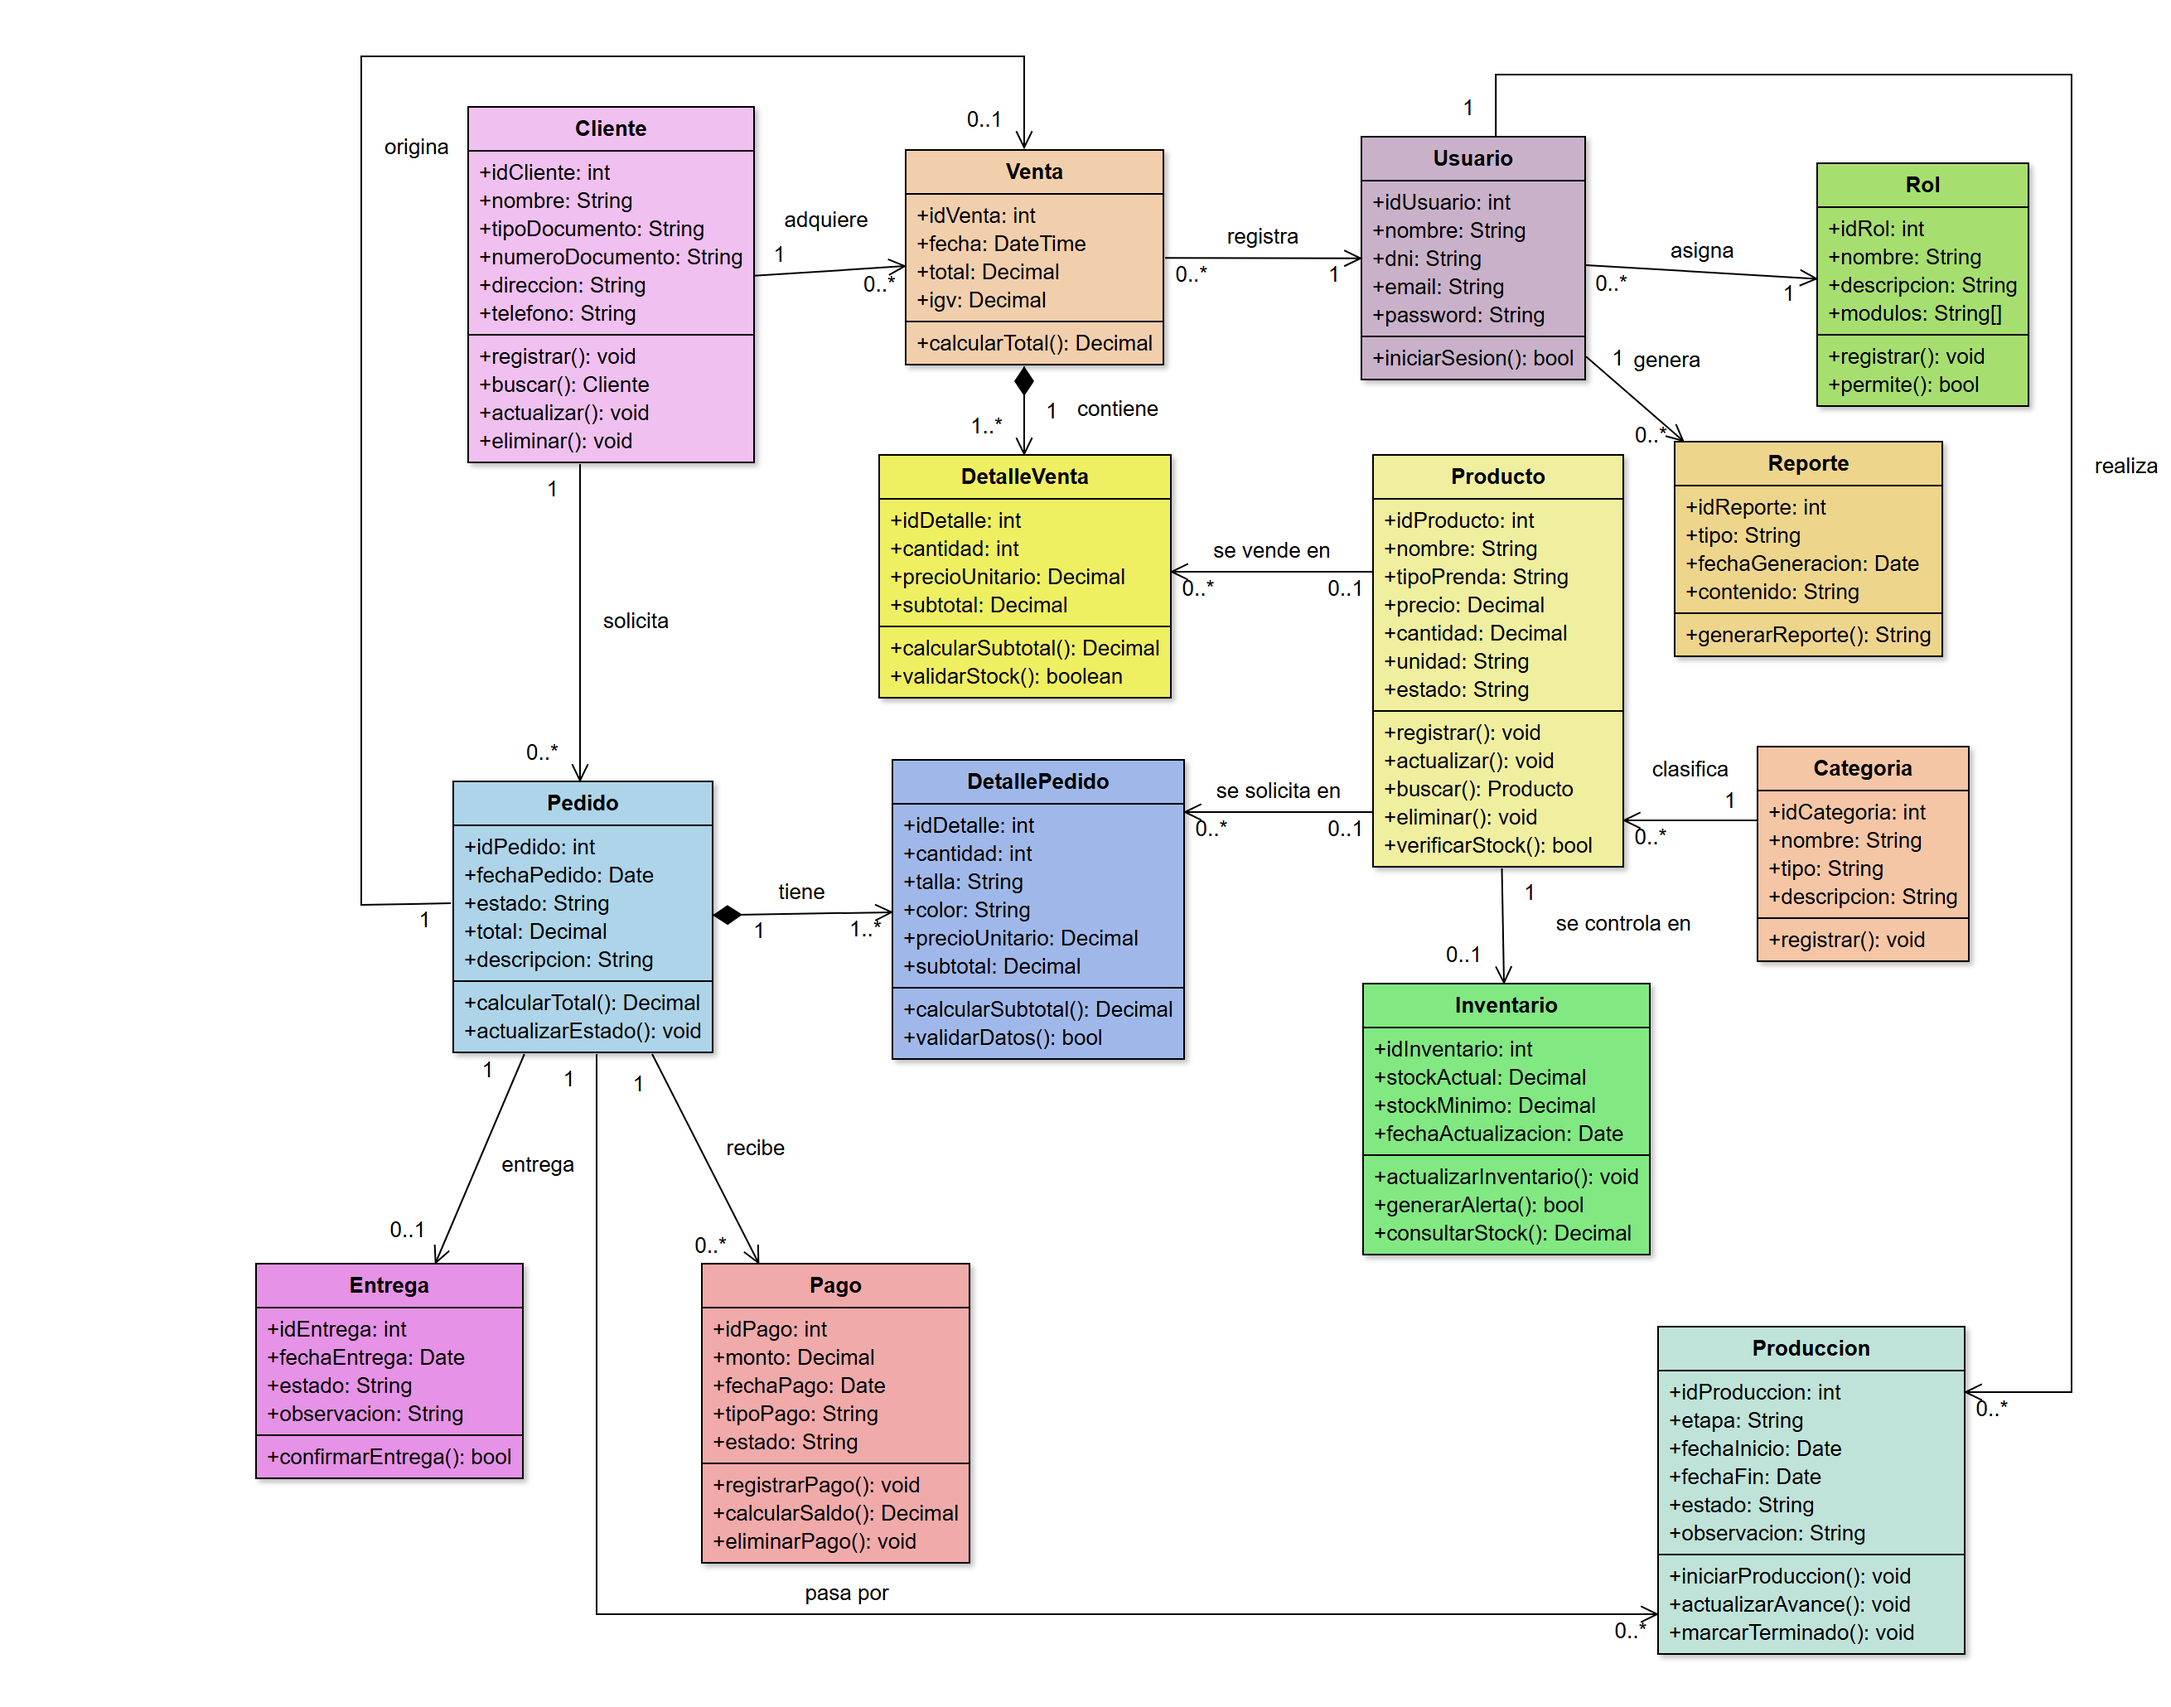
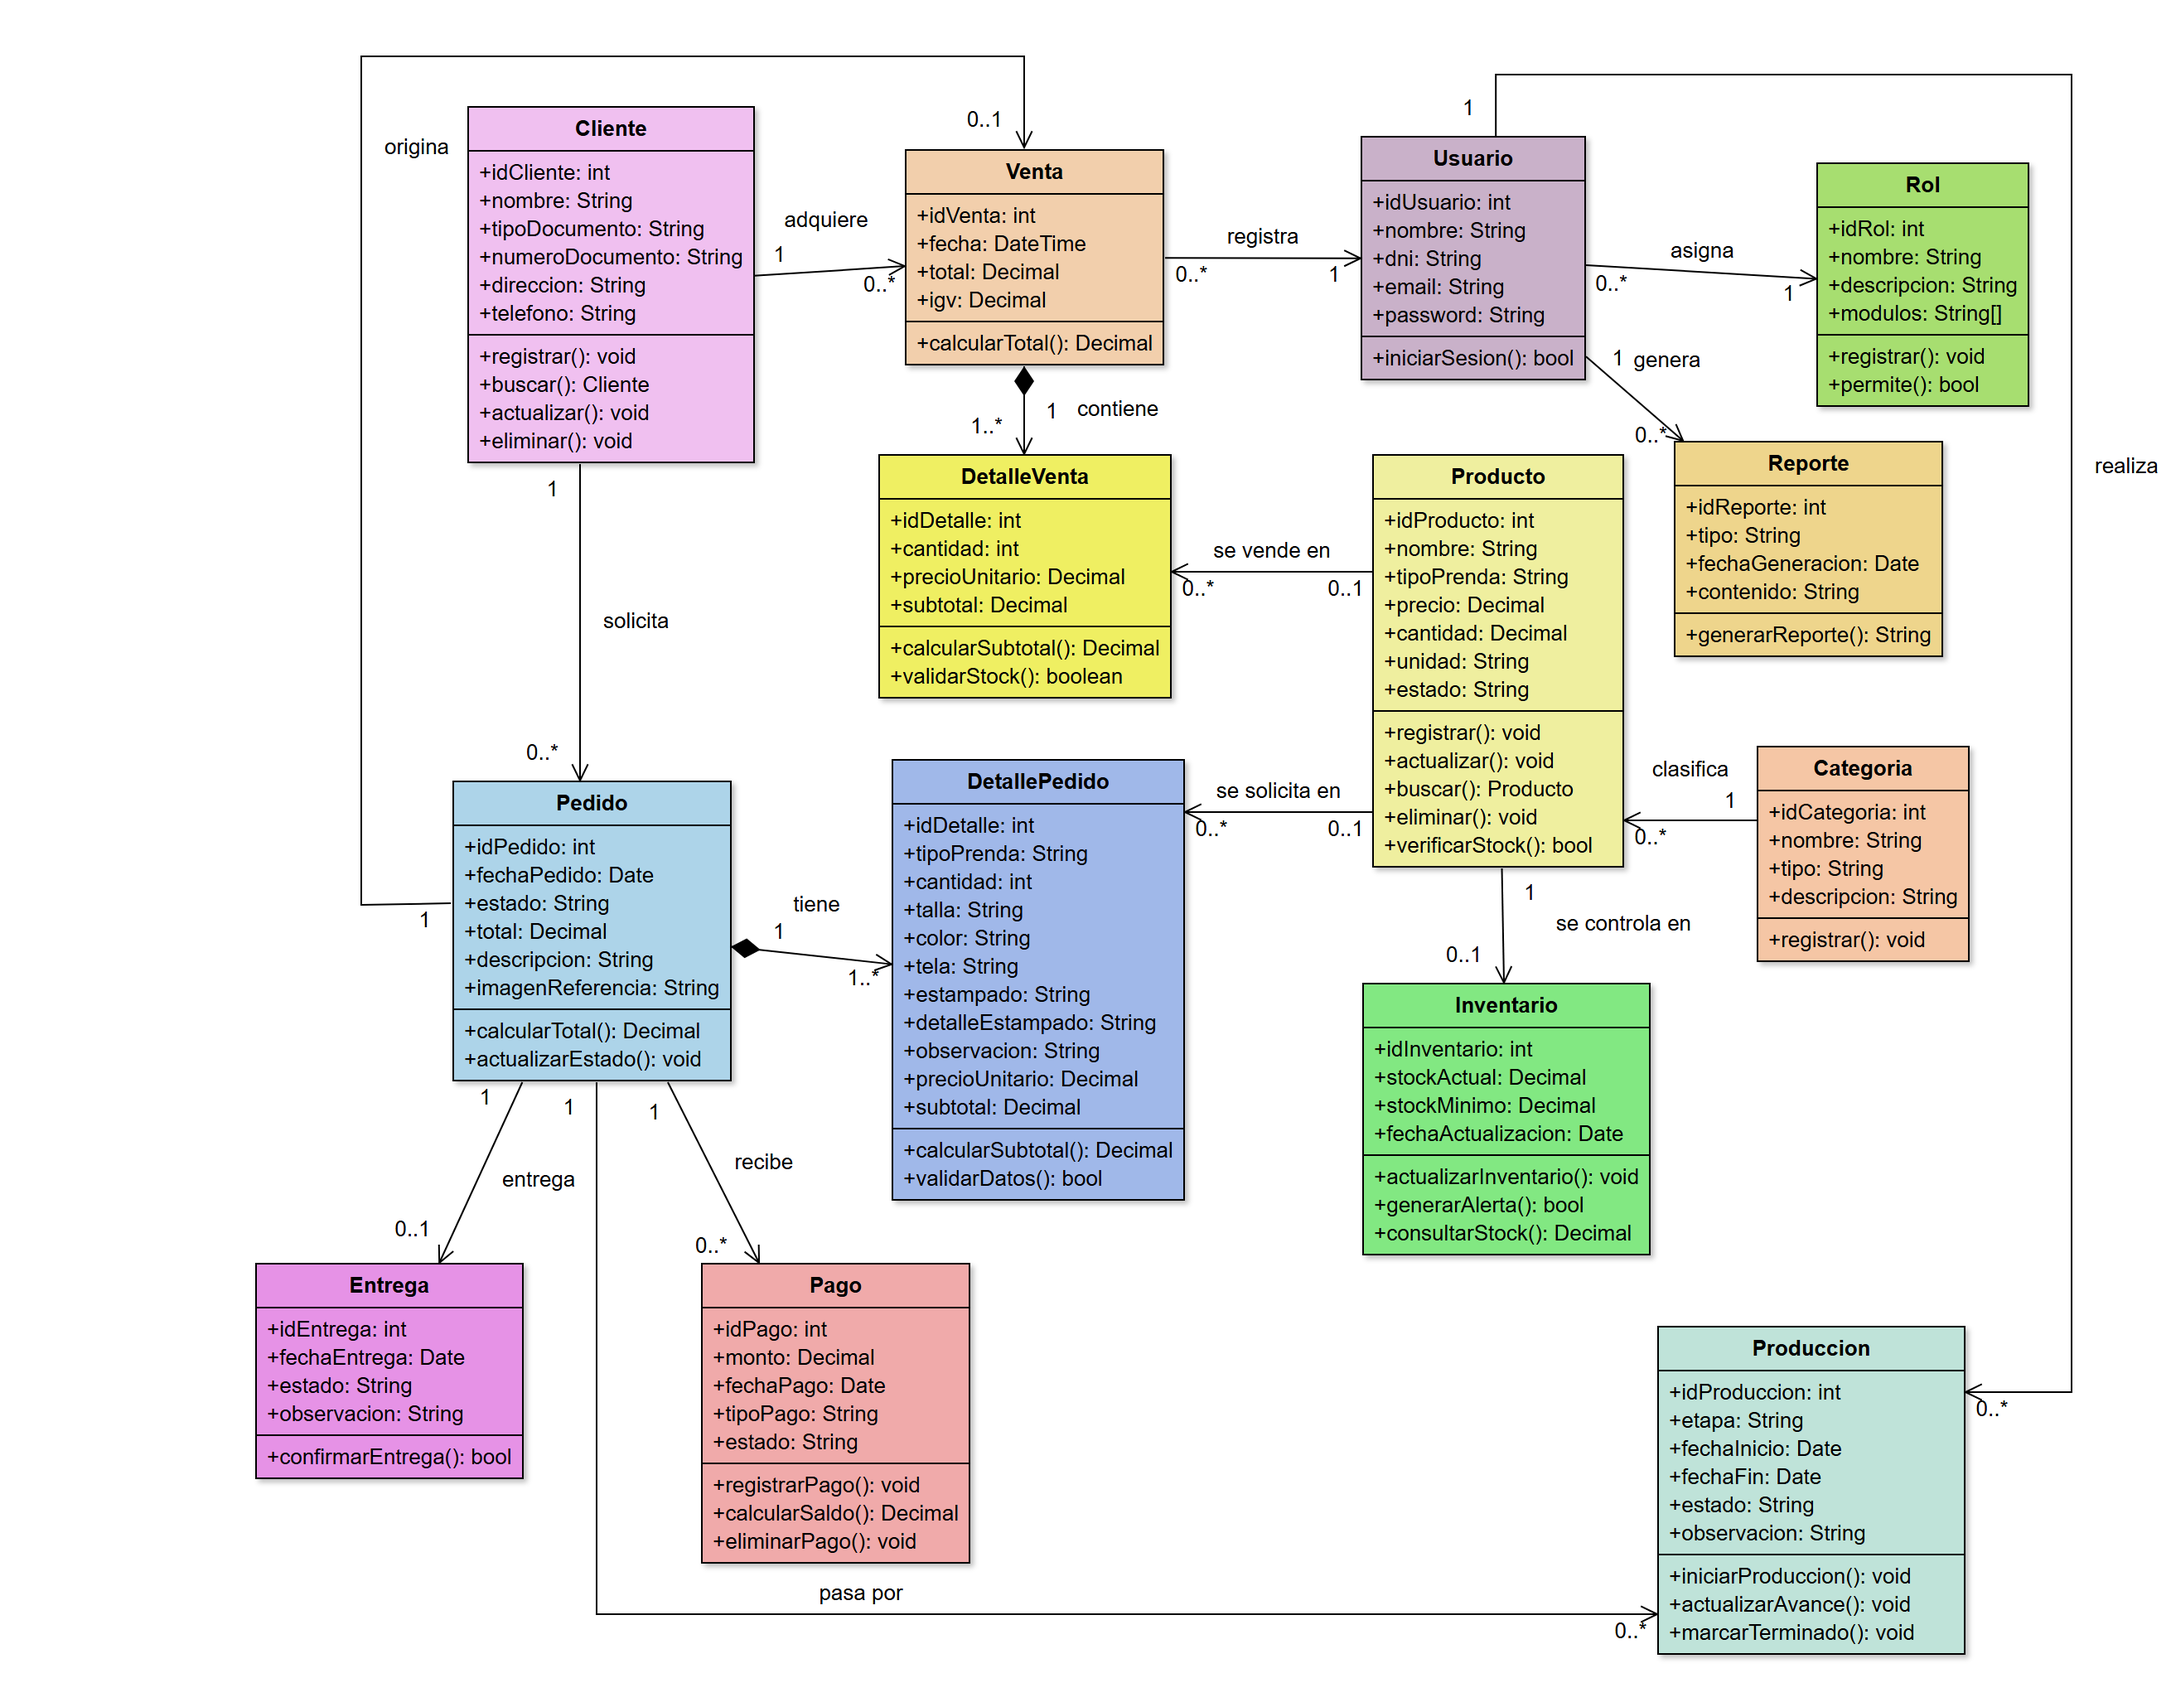
docs(uml): datos de la prenda e imagen de referencia del pedido

diff --git a/doc/uml/DCLASS/Revision_diagrama_clases.md b/doc/uml/DCLASS/Revision_diagrama_clases.md
@@ -29,6 +29,8 @@ Antes de traducir el diagrama de clases a migraciones y modelos Eloquent, se rev
 | 21 | `Categoria` sin tipo | DELITEX confecciona y vende prendas; las telas, hilos y accesorios son insumos del taller y no se venden. No había cómo distinguirlos. | `Categoria.tipo: String` (prenda o insumo): ventas y pedidos solo ofrecen prendas |
 | 22 | `Rol` sin permisos | Todos los usuarios entraban a todos los módulos, por ejemplo una confeccionista podía eliminar usuarios. El prototipo ya definía qué módulos ve cada rol. | `Rol.modulos: String[]` y `permite(): bool` |
 | 23 | `Pago.estado` con valores parcial / completo guardados una sola vez | Si se anulaba un pago, el estado de los otros quedaba desactualizado. | El estado es `adelanto` o `cancelacion` y se vuelve a calcular con `Pedido.actualizarEstadoPagos()` al registrar o anular un pago y al cambiar el total |
+| 24 | DetallePedido solo con talla, color, cantidad y precio | El taller necesita saber qué prenda confeccionar, en qué tela y con qué estampado; el prototipo ya generaba una ficha de producción con esos datos y un dibujo de cada prenda. | `DetallePedido` con `tipoPrenda`, `tela`, `estampado`, `detalleEstampado` y `observacion` |
+| 25 | Pedido sin imagen | El cliente suele enviar su logo, escudo o diseño, y el taller lo necesita a la vista. | `Pedido.imagenReferencia: String` (ruta de la imagen en el disco public, como la imagen del producto) |
 
 Los atributos `idCliente`, `idVenta`, `idRol`, etc. se conservan en el diagrama. En Laravel todas las tablas usan una sola columna `id`, creada con `$table->id()`, y las claves foráneas se nombran `singular_id`.
 
@@ -88,3 +90,4 @@ La tabla `categories` se agregó después de las demás. Como `products` apunta 
 - El stock bajo se decide con el stock mínimo de cada inventario (`generarAlerta()`), tanto en Productos como en las alertas.
 - Las fechas del pedido y del pago no pueden ser futuras, y un pago no puede ser anterior a su pedido.
 - Cada usuario entra solo a los módulos de su rol, solo puede asignar roles con los mismos permisos que el suyo o menos, no puede cambiar su propio rol ni eliminarse, y nadie puede quitarle a su propio rol el acceso a Roles.
+- La ficha de producción de cada pedido junta las filas de la misma prenda (tipo, color, tela y estampado) en un cuadro de tallas, dibuja cada prenda con el color de su tela y muestra la imagen de referencia. Se imprime o se guarda en PDF desde el navegador.
